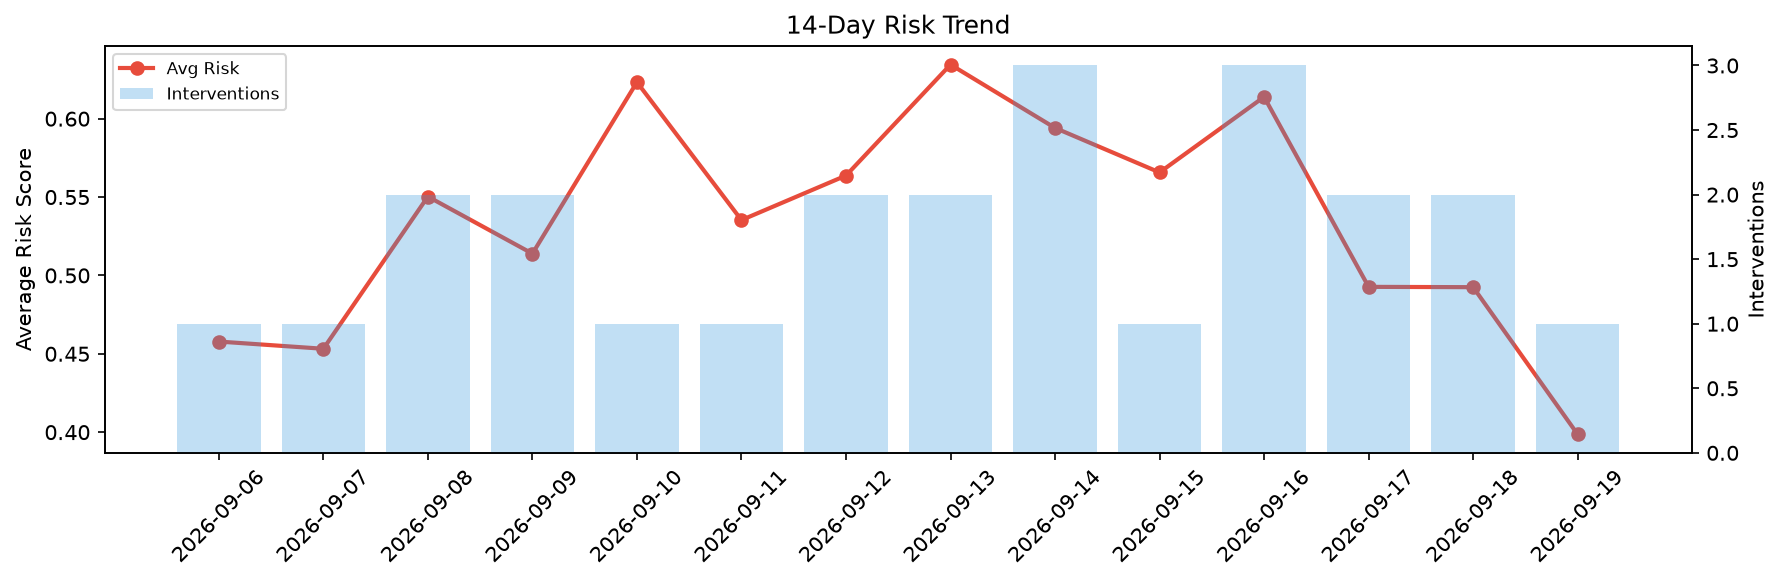
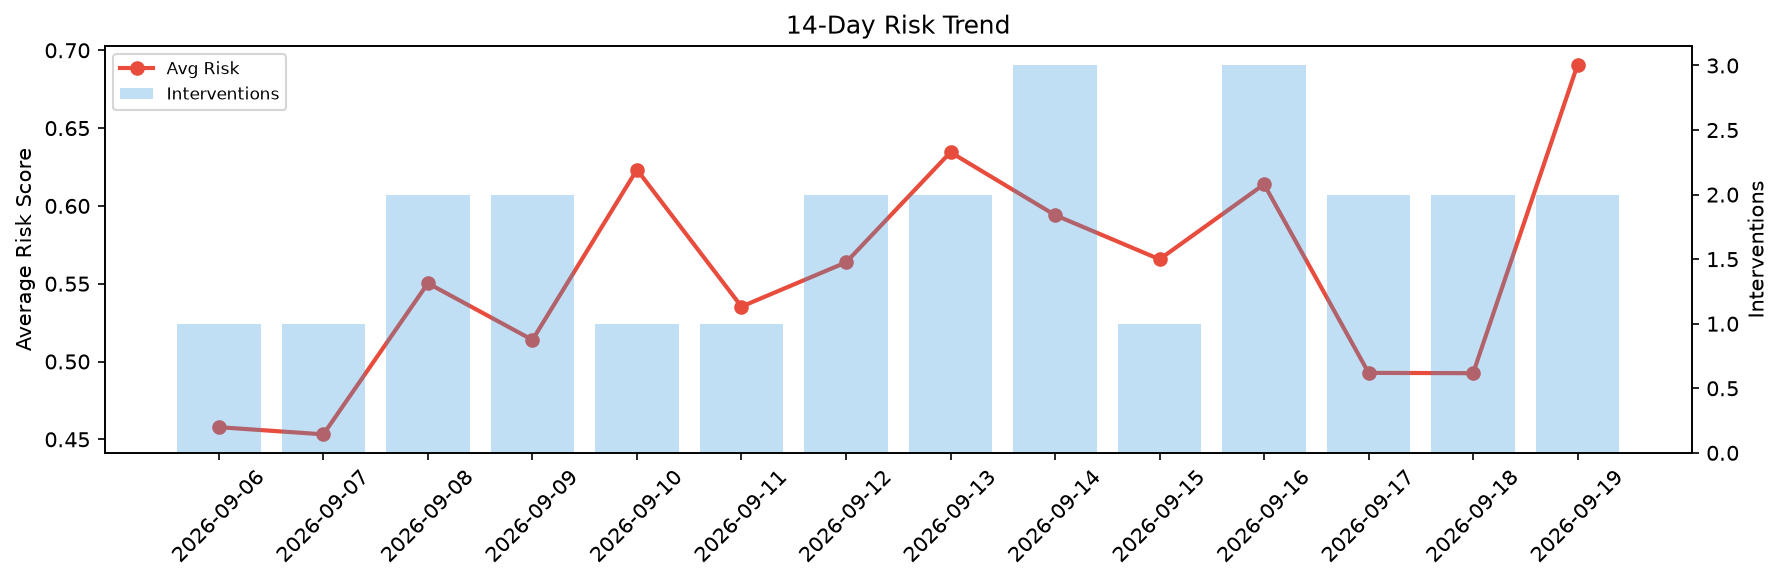
agent-improvement: daily cycle 2026-09-19T17:17

diff --git a/logs/2026-09-19.md b/logs/2026-09-19.md
@@ -1,6 +1,6 @@
 # Agent Improvement Report — 2026-09-19
 
-**Cycle ID:** `f07ecc3b` | **Avg Risk:** 0.3986 | **Interventions:** 1/4
+**Cycle ID:** `a827ab42` | **Avg Risk:** 0.6908 | **Interventions:** 2/4
 
 ![Dashboard](2026-09-19_dashboard.png)
 
@@ -10,18 +10,18 @@
 
 | Domain | Risk Score | Decision | Alerts |
 |--------|-----------|----------|--------|
-| code_review | 0.3396 | monitor | none |
-| incident_response | 0.8588 | intervene | blast_radius, mttr |
-| data_pipeline | 0.1367 | monitor | none |
-| deployment | 0.2594 | monitor | none |
+| code_review | 0.5892 | monitor | duplication |
+| incident_response | 0.5779 | monitor | mttr |
+| data_pipeline | 0.8629 | intervene | schema_drift, volume_anomaly |
+| deployment | 0.7331 | intervene | canary_error, latency_p99 |
 
 ## Delta vs Yesterday
 
 | Domain | Today | Yesterday | Change |
 |--------|-------|-----------|--------|
-| code_review | 0.3396 | 0.2897 | 📈 17.2% |
-| incident_response | 0.8588 | 0.6154 | 📈 39.6% |
-| data_pipeline | 0.1367 | 0.6899 | 📉 -80.2% |
-| deployment | 0.2594 | 0.375 | 📉 -30.8% |
+| code_review | 0.5892 | 0.2897 | 📈 103.4% |
+| incident_response | 0.5779 | 0.6154 | 📉 -6.1% |
+| data_pipeline | 0.8629 | 0.6899 | 📈 25.1% |
+| deployment | 0.7331 | 0.375 | 📈 95.5% |
 
-**Refinement:** `{'adjustment': 'maintain', 'trend': 'improving', 'window': 4}`
+**Refinement:** `{'adjustment': 'tighten_thresholds', 'trend': 'degrading', 'window': 4}`
